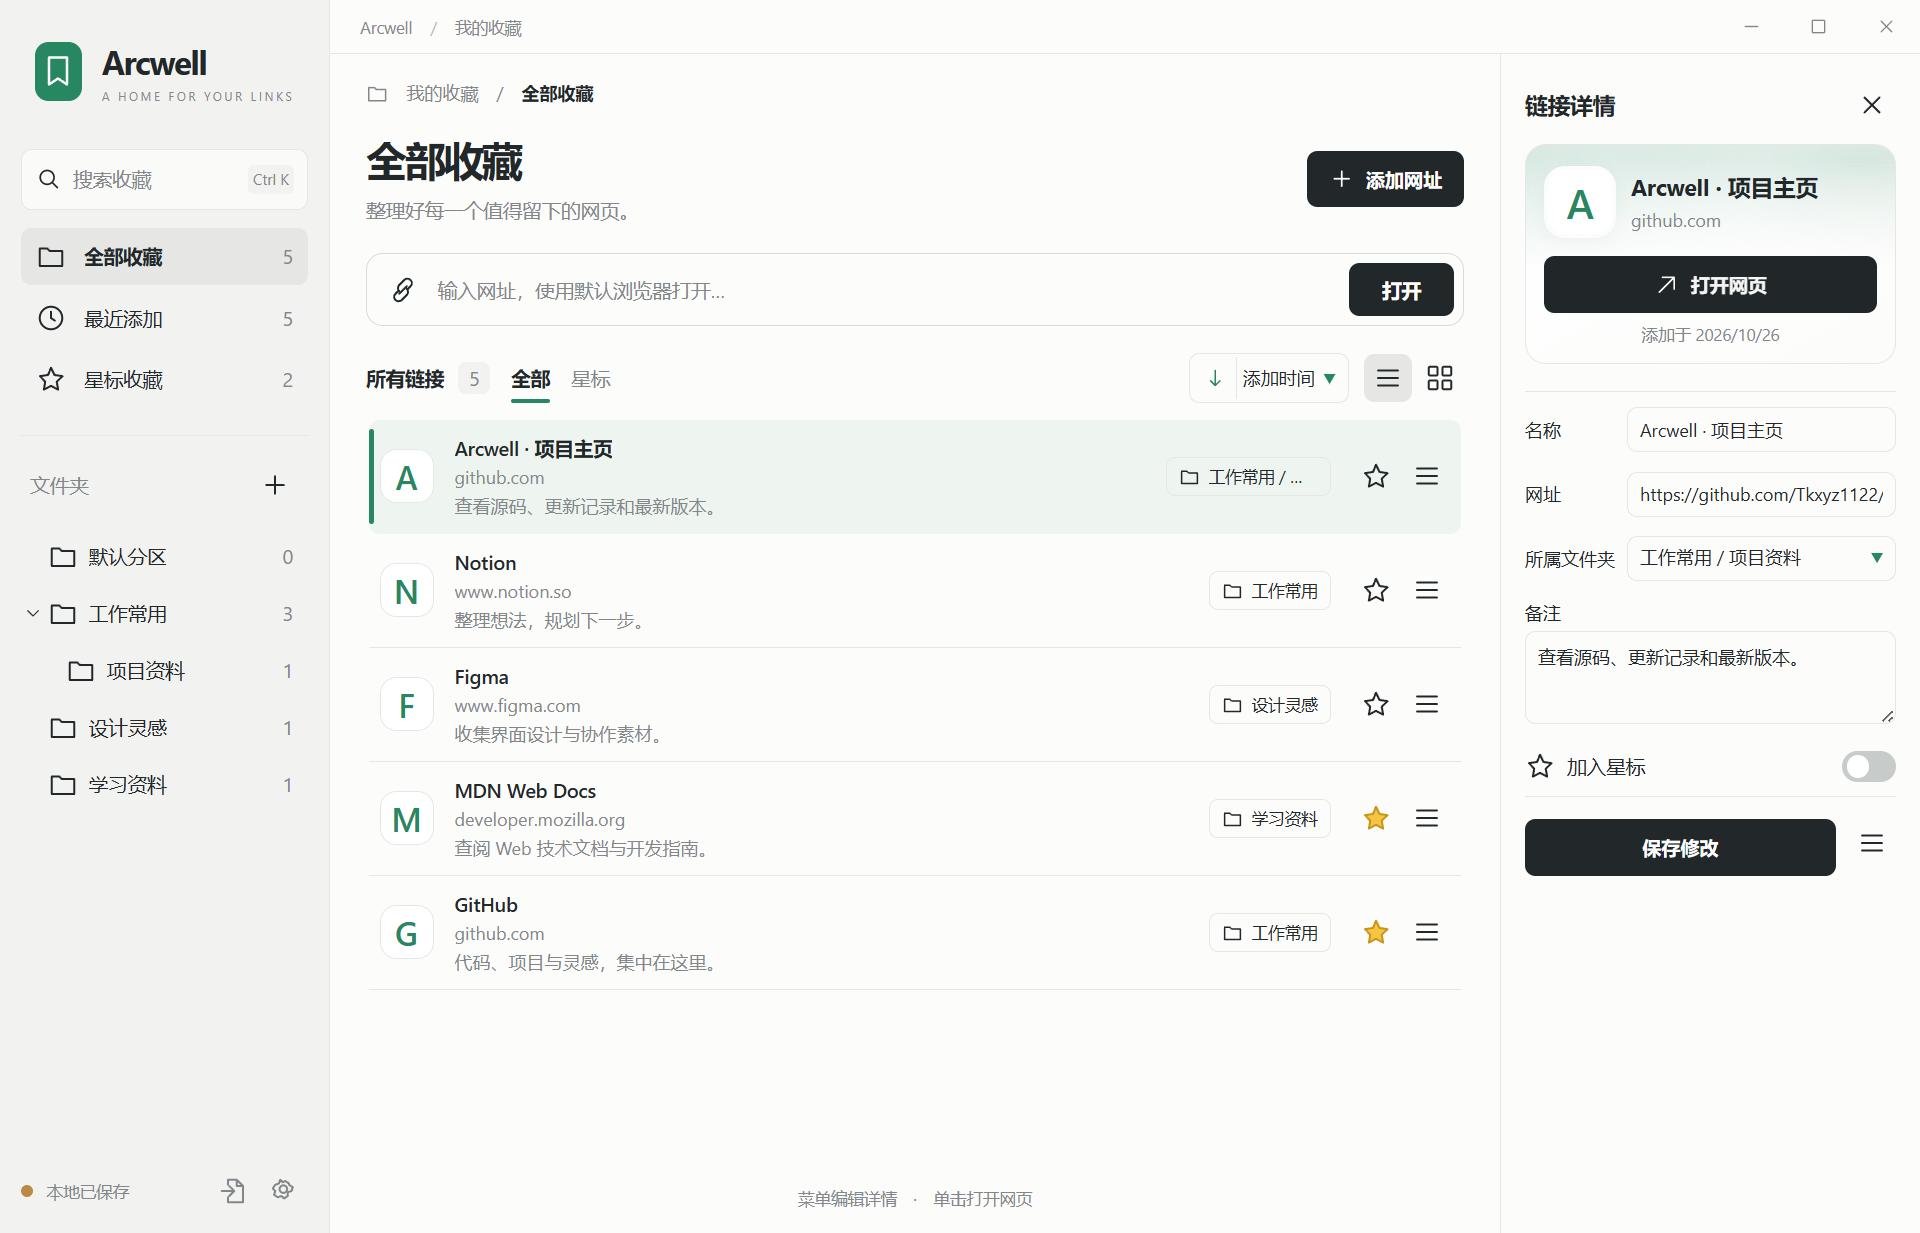
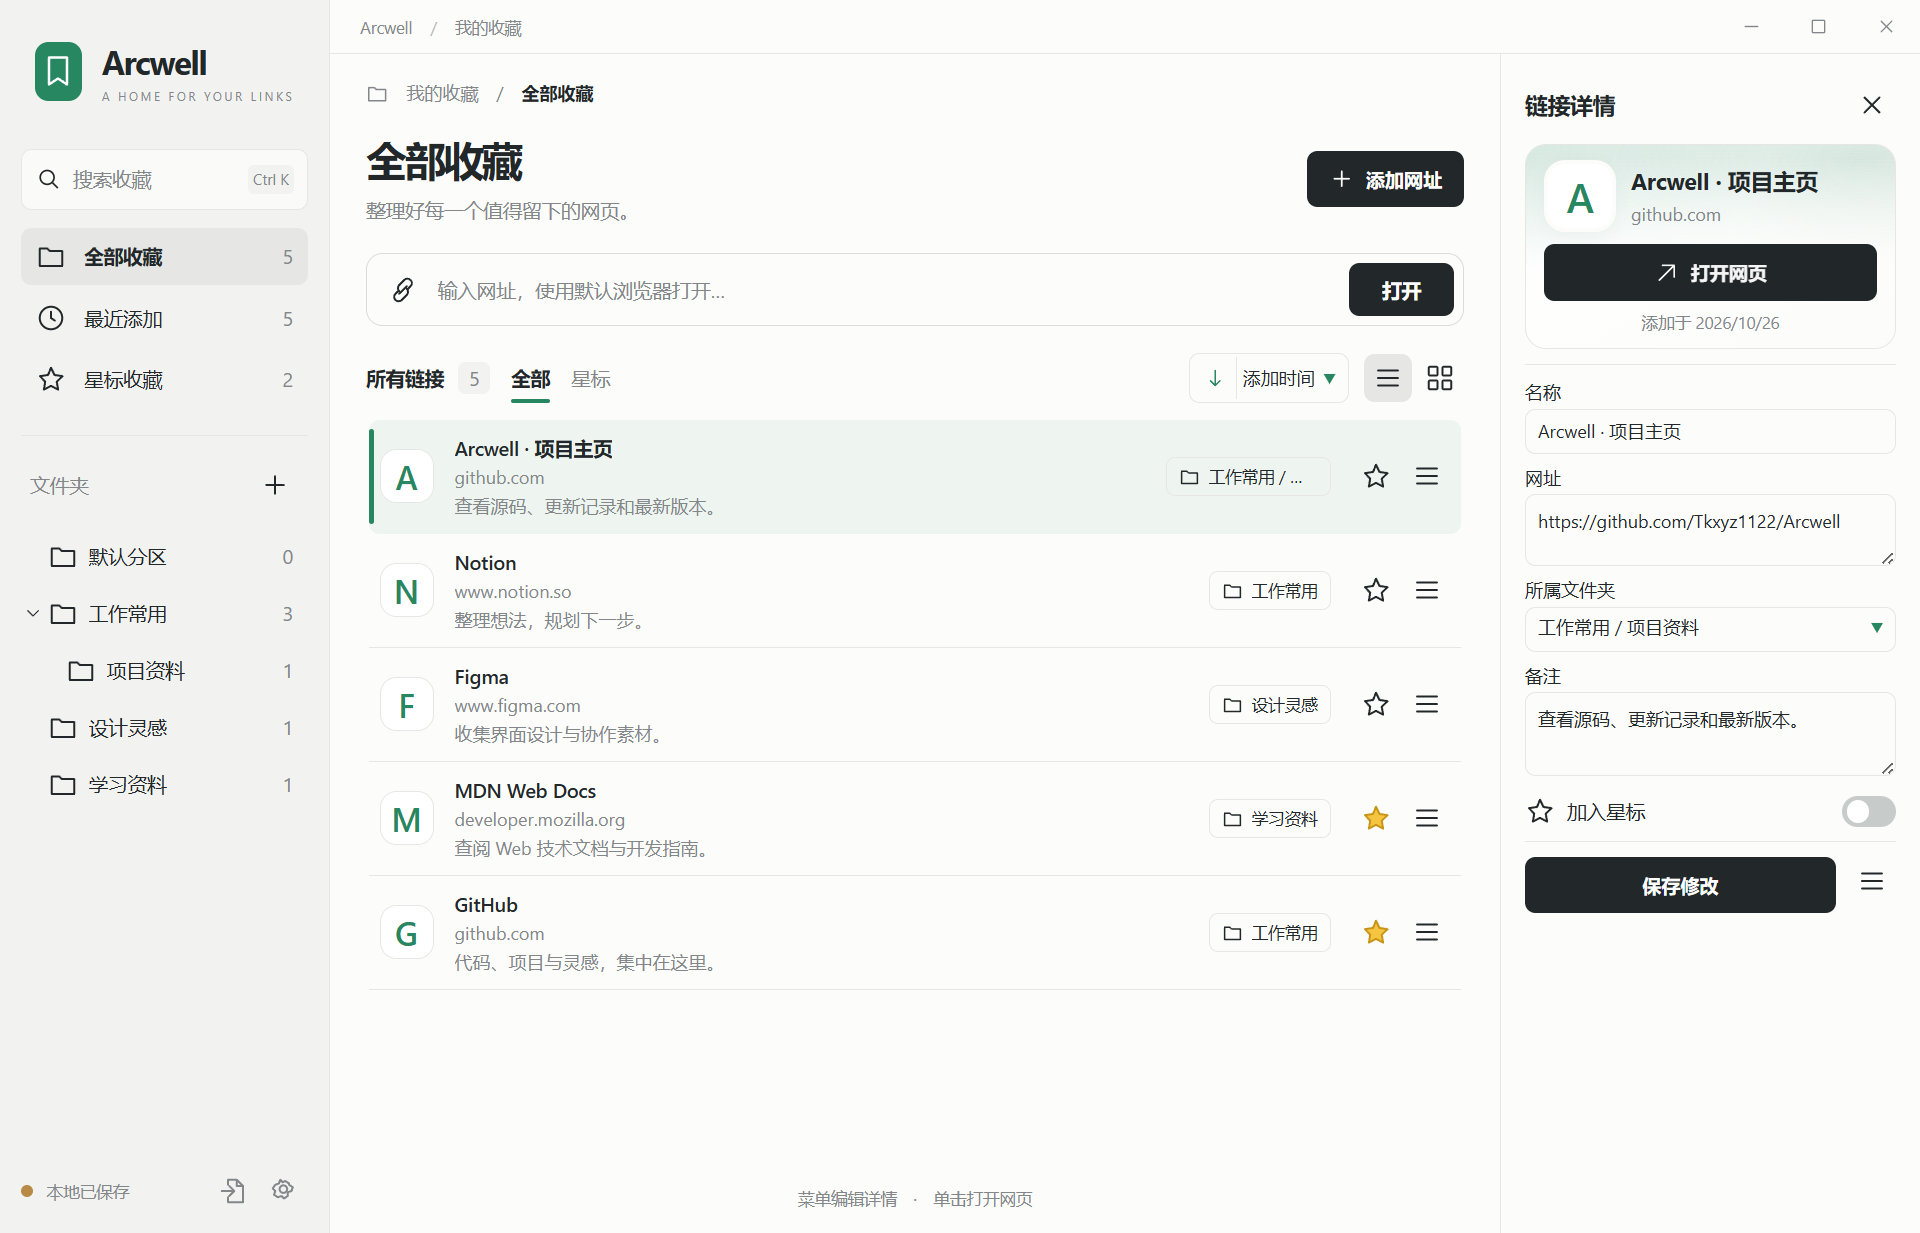
Stack bookmark detail fields and wrap long website addresses

Changed region(s): [[0.7812, 0.3082, 0.9688, 0.5856], [0.7812, 0.5856, 1.0, 0.7397], [0.8125, 0.1233, 0.9688, 0.2774]]

diff --git a/src/ui/styles.css b/src/ui/styles.css
@@ -730,7 +730,7 @@ main {
   border: 1px solid var(--line);
   border-radius: calc(var(--radius) * 2);
   background: linear-gradient(150deg, #fff, var(--canvas));
-  margin-bottom: var(--layout-section-block);
+  margin-bottom: var(--detail-gap);
   overflow: hidden;
 }
 .profile-cover {
@@ -748,7 +748,7 @@ main {
   display: flex;
   align-items: center;
   gap: var(--detail-gap);
-  margin: 14px 12px 12px;
+  margin: 10px 12px 8px;
 }
 .detail-brand .website-icon {
   flex-shrink: 0;
@@ -786,7 +786,7 @@ main {
   text-overflow: ellipsis;
 }
 .profile-actions {
-  padding: 0 12px 12px;
+  padding: 0 12px 10px;
 }
 .footer-actions {
   display: flex;
@@ -821,7 +821,7 @@ main {
   padding-top: var(--detail-gap);
   display: flex;
   flex-direction: column;
-  gap: calc(var(--detail-gap) + 3px);
+  gap: max(7px, calc(var(--detail-gap) - 2px));
 }
 .field {
   display: flex;
@@ -1113,14 +1113,8 @@ dialog::backdrop {
 .folder-row .nav-item {
   padding-right: 10px;
 }
-.inspector .field:not(:has(textarea)) {
-  display: grid;
-  grid-template-columns: 60px minmax(0, 1fr);
-  column-gap: 8px;
-  align-items: center;
-}
 .inspector .field {
-  gap: 4px;
+  gap: 3px;
   font-size: var(--caption);
 }
 .inspector .field input,
@@ -1130,11 +1124,16 @@ dialog::backdrop {
   font-size: var(--caption);
 }
 .inspector .field textarea {
-  height: 62px;
-  min-height: 62px;
+  height: 56px;
+  min-height: 56px;
   padding: 7px 8px;
   font-size: var(--caption);
   resize: vertical;
+}
+.inspector #detail-url {
+  height: 48px;
+  min-height: 48px;
+  overflow-wrap: anywhere;
 }
 .detail-star {
   padding: 5px 0 9px;
@@ -1151,7 +1150,7 @@ dialog::backdrop {
 }
 @media (min-height: 900px) {
   :root {
-    --detail-gap: 20px;
+    --detail-gap: 14px;
     --profile-cover-height: 60px;
   }
   .inspector .field input,

diff --git a/src/ui/app.js b/src/ui/app.js
@@ -552,7 +552,15 @@ function renderInspector() {
   const form = element('form', 'detail-form');
   form.id = 'detail-form';
   const title = input('detail-title', bookmark.title, 120);
-  const url = input('detail-url', bookmark.url, 4096);
+  const url = element('textarea');
+  url.id = 'detail-url';
+  url.value = bookmark.url;
+  url.maxLength = 4096;
+  url.required = true;
+  url.rows = 2;
+  url.spellcheck = false;
+  url.inputMode = 'url';
+  url.wrap = 'soft';
   const folder = folderSelect('detail-folder', bookmark.folderId);
   const note = element('textarea');
   note.id = 'detail-note';

diff --git a/README.md b/README.md
@@ -3,11 +3,11 @@
 <p align="center"><img src="assets/icon.svg" width="64" alt="Arcwell" /></p>
 <p align="center"><strong>A quiet home for your bookmarks.</strong><br />把常用网站、工作资料和灵感网页，整理成自己的桌面收藏库。</p>
 <p align="center">
-<a href="https://github.com/Tkxyz1122/Arcwell/releases/download/v0.5.4/Arcwell-0.5.4-Setup.exe"><img src="docs/images/download-setup.svg?v=compact" alt="下载安装版" /></a>
+<a href="https://github.com/Tkxyz1122/Arcwell/releases/download/v0.5.5/Arcwell-0.5.5-Setup.exe"><img src="docs/images/download-setup.svg?v=compact" alt="下载安装版" /></a>
 &nbsp;
-<a href="https://github.com/Tkxyz1122/Arcwell/releases/download/v0.5.4/Arcwell-0.5.4-Portable.zip"><img src="docs/images/download-portable.svg?v=compact" alt="下载便携版 ZIP" /></a>
+<a href="https://github.com/Tkxyz1122/Arcwell/releases/download/v0.5.5/Arcwell-0.5.5-Portable.zip"><img src="docs/images/download-portable.svg?v=compact" alt="下载便携版 ZIP" /></a>
 </p>
-<p align="center">Windows 11 · x64 · 当前版本 0.5.4</p>
+<p align="center">Windows 11 · x64 · 当前版本 0.5.5</p>
 
 ## Arcwell 是什么
 
@@ -38,7 +38,7 @@ Arcwell 是一款本地优先的 Windows 桌面网页收藏管理工具。你可
 
 ### 安装版（推荐）
 
-[下载安装程序 · Arcwell 0.5.4 Setup.exe](https://github.com/Tkxyz1122/Arcwell/releases/download/v0.5.4/Arcwell-0.5.4-Setup.exe)
+[下载安装程序 · Arcwell 0.5.5 Setup.exe](https://github.com/Tkxyz1122/Arcwell/releases/download/v0.5.5/Arcwell-0.5.5-Setup.exe)
 
 下载的是 **EXE 安装程序，无需手动解压**。双击后按向导选择位置并完成安装。程序会放入独立的 Arcwell 文件夹，避免文件散落在目标目录。
 
@@ -46,7 +46,7 @@ Arcwell 是一款本地优先的 Windows 桌面网页收藏管理工具。你可
 
 ### 便携版（可选）
 
-[下载便携版 · Arcwell 0.5.4 Portable.zip](https://github.com/Tkxyz1122/Arcwell/releases/download/v0.5.4/Arcwell-0.5.4-Portable.zip)
+[下载便携版 · Arcwell 0.5.5 Portable.zip](https://github.com/Tkxyz1122/Arcwell/releases/download/v0.5.5/Arcwell-0.5.5-Portable.zip)
 
 解压后打开其中的 **Arcwell** 文件夹，双击 **Arcwell.exe**。请保留完整文件夹，移动程序时一起移动。
 
@@ -60,7 +60,7 @@ Arcwell 是一款本地优先的 Windows 桌面网页收藏管理工具。你可
 4. **补充信息**：点击收藏右侧三横线菜单或右键菜单，选择“编辑详情”，修改名称、网址、所属文件夹和备注，完成后保存。
 5. **设置第二份备份**：点击左下角齿轮，在“自动 HTML 备份”中选择自定义备份目录。
 
-排序栏可选择“添加时间”或“名称排序”，点击旁边的箭头切换升序 / 降序；两种排序分别记住本次使用的方向。“最近添加”始终限定最新 30 条。详情栏以网站图标、名称与柔和绿色渐变资料卡展示网站信息，编辑表单下保留适度留白。
+排序栏可选择“添加时间”或“名称排序”，点击旁边的箭头切换升序 / 降序；两种排序分别记住本次使用的方向。“最近添加”始终限定最新 30 条。详情栏以网站图标、名称与柔和绿色渐变资料卡展示网站信息，编辑表单采用标签在上、控件在下的统一布局；网址框可自动折行，便于查看和修改长链接，底部保留适度留白。
 
 顶部网址输入框用于**直接打开输入的网址**，不会自动添加收藏。需要保存到收藏库时，请使用“添加网址”。长文件夹名称被省略后，鼠标悬停可查看完整路径。
 
@@ -128,7 +128,7 @@ Arcwell 在保存收藏修改后，同步更新两份固定名称的 **网址备
 
 首次从旧版升级，或无法使用应用内更新时，可手动下载更新程序：
 
-[下载 Arcwell 0.5.4 更新程序 · Update.exe](https://github.com/Tkxyz1122/Arcwell/releases/download/v0.5.4/Arcwell-0.5.4-Update.exe)
+[下载 Arcwell 0.5.5 更新程序 · Update.exe](https://github.com/Tkxyz1122/Arcwell/releases/download/v0.5.5/Arcwell-0.5.5-Update.exe)
 
 先保存正在编辑的内容，再运行更新程序。程序会自动使用原安装位置，后台更新后重新打开 Arcwell 并显示结果，**无需先卸载旧版或重新选择目录**。便携版可将更新程序放到 Arcwell.exe 所在文件夹后运行。找不到原程序时会停止，不向新的默认位置安装。后续可继续通过应用内“检查更新”更新。
 
@@ -176,7 +176,7 @@ npm run build
 
 技术栈为 Electron、原生 HTML / CSS / JavaScript、htmlparser2 与 electron-builder。渲染器使用沙箱，文件保存、导入、备份、默认浏览器调用与更新下载由主进程负责。代码按界面、业务规则、存储、备份、图标和更新模块拆分。
 
-`npm run build` 生成安装程序、更新程序及便携 ZIP，产物位于 `release/0.5.4`。更详细的开发结构、数据恢复和发布流程见：
+`npm run build` 生成安装程序、更新程序及便携 ZIP，产物位于 `release/0.5.5`。更详细的开发结构、数据恢复和发布流程见：
 
 - [开发与数据说明](docs/DEVELOPMENT.md)
 - [更新与发布](docs/UPDATING.md)

diff --git a/docs/release-notes.md b/docs/release-notes.md
@@ -1,5 +1,5 @@
 <p>
-<a href="https://github.com/Tkxyz1122/Arcwell/releases/download/v0.5.4/Arcwell-0.5.4-Setup.exe">下载安装版</a> · <a href="https://github.com/Tkxyz1122/Arcwell/releases/download/v0.5.4/Arcwell-0.5.4-Portable.zip">下载便携版 ZIP</a>
+<a href="https://github.com/Tkxyz1122/Arcwell/releases/download/v0.5.5/Arcwell-0.5.5-Setup.exe">下载安装版</a> · <a href="https://github.com/Tkxyz1122/Arcwell/releases/download/v0.5.5/Arcwell-0.5.5-Portable.zip">下载便携版 ZIP</a>
 </p>
 
 **安装版**：运行安装程序，按向导完成安装。
@@ -8,10 +8,8 @@
 
 **检查更新**：应用左下角齿轮 → 应用更新 → 检查更新，在应用内下载并安装后续版本。
 
-**手动更新（备用）**：[下载更新程序](https://github.com/Tkxyz1122/Arcwell/releases/download/v0.5.4/Arcwell-0.5.4-Update.exe)，自动使用原安装目录，后台更新，无需卸载。
+**手动更新（备用）**：[下载更新程序](https://github.com/Tkxyz1122/Arcwell/releases/download/v0.5.5/Arcwell-0.5.5-Update.exe)，自动使用原安装目录，后台更新，无需卸载。
 
-本版移除收藏标题旁的小箭头。添加时间与名称排序支持升序 / 降序切换，最近添加仍限定最新 30 条。
+详情栏的名称、网址、所属文件夹统一为上方标签、下方全宽控件，标签与输入框之间保持紧凑间距。网址框使用与备注一致的样式，长链接可自动折行查看和编辑。
 
-右侧详情重新设计为网站资料卡：网站图标作为头像，搭配柔和绿色渐变背景、名称和域名。表单间距更加舒展，小窗口仍可完整编辑和保存。
-
-更新仍在原目录后台完成，无需卸载；完成后自动重开，以应用内弹窗显示结果。保留草稿保护、签名与哈希校验及失败回滚。
+保留网站头像与渐变资料卡、双向排序、原目录后台更新和应用内结果弹窗。

diff --git a/docs/DEVELOPMENT.md b/docs/DEVELOPMENT.md
@@ -36,7 +36,7 @@ npm run format:check
 npm run build
 ```
 
-产物位于 `release/0.5.4`：Setup.exe 是安装向导，Portable.zip 是可选的便携版；Update.exe 供应用内更新及手动更新备用。便携运行需保留完整 Arcwell 文件夹。依赖由 npm ci 根据锁文件恢复。
+产物位于 `release/0.5.5`：Setup.exe 是安装向导，Portable.zip 是可选的便携版；Update.exe 供应用内更新及手动更新备用。便携运行需保留完整 Arcwell 文件夹。依赖由 npm ci 根据锁文件恢复。
 
 界面测试：`npm run test:sorting`（双向排序、最新30条范围、资料卡与留白）、`npm run test:ui`、`npm run test:import`、`node scripts/release-ui-test.cjs`，均使用隔离数据。原生更新器测试需指定只读旧版基线，见 [更新与发布](UPDATING.md)。
 

diff --git a/CHANGELOG.md b/CHANGELOG.md
@@ -1,5 +1,11 @@
 # 更新记录
 
+## 0.5.5 · 2026-10-26
+
+- 详情栏的名称、网址与所属文件夹统一采用标签在上、控件在下的全宽布局。
+- 缩小标签与输入框间距，去掉横向排版留下的大块空隙。
+- 网址使用与备注一致的文本框，长链接自动软折行，保存及网址校验保持一致。
+
 ## 0.5.4 · 2026-10-26
 
 - 移除收藏标题旁的小箭头，保留单击打开网页和独立操作按钮。
